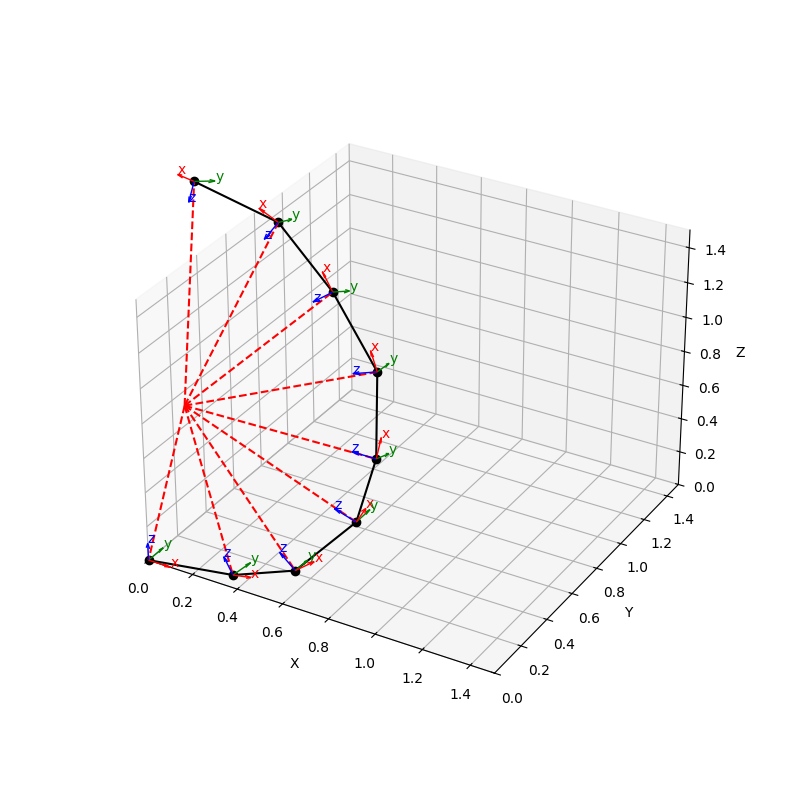
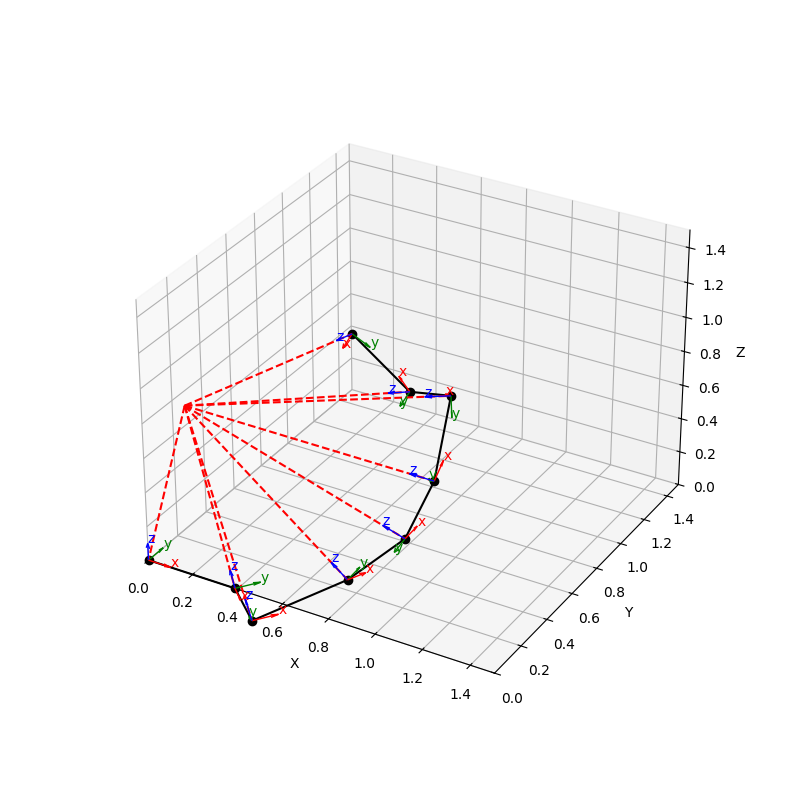
refactoring

diff --git a/fin_transformation.py b/fin_transformation.py
@@ -5,6 +5,9 @@ import matplotlib.pyplot as plt
 """
 Theory taken from: FORWARD KINEMATICS: THE DENAVIT-HARTENBERG CONVENTION
 https://users.cs.duke.edu/~brd/Teaching/Bio/asmb/current/Papers/chap3-forward-kinematics.pdf
+
+TODO
+Input parameter is number of rays, geometric parameters calculated automatically 
 """
 
 def plot_fin(positions, rotations, fin_origin, scale=0.5):
@@ -62,8 +65,8 @@ def plot_fin(positions, rotations, fin_origin, scale=0.5):
     ax.set_ylim(0, 1.5)
     ax.set_zlim(0, 1.5)
 
-    # Plot wireframe using position of fan origin
-    print(f'Checking each point is equal euclidian distance from fin origin')
+    # Plot wireframe by connecting joints to fin origin
+    print(f'Sanity checking each point is equal euclidian distance from fin origin:')
     for i, position in enumerate(positions):
         xyz = [[i, j] for i, j in zip(fin_origin, position)]
         x_ = xyz[0]
@@ -80,10 +83,12 @@ def plot_fin(positions, rotations, fin_origin, scale=0.5):
     # plt.show()
 
 def dh_transform(a, alpha, d, theta):
+    """
+    Standard DH transform
+    """
     ct = cos(theta); st = sin(theta)
     ca = cos(alpha); sa = sin(alpha)
 
-    # Standard DH transform
     return np.array([
         [ct, -st*ca,  st*sa, a*ct],
         [st,  ct*ca, -ct*sa, a*st],
@@ -151,23 +156,22 @@ def Tz(d):
 
 def transformation_matrix(beta, a, gamma, theta):
     """
-    Build A_i = Ry(beta) @ Rx(gamma) @ Rz(theta) @ Tx(a) @ Tz(d)
+    Build A_i = Ry(beta) @ Tx(a) @ Ry(gamma) @ Rz(theta) 
     where:
-      - beta rotates about local Y to set X direction,
-      - gamma rotates about local X to set Z axis,
-      - theta is the joint rotation about that Z,
-      - Tx(a) and Tz(d) place link endpoint.
+      - Ry(beta) rotates about local Y, by fixed ray offset beta, to set new X axis,
+      - Tx(a) is translation in new X direction by link length a,
+      - Ry(gamma) rotates about local Y, by fixed offset gamma, to set new Z axis
+      - Rz(theta) is joint rotation about new Z by joint angle theta.
+
     Returns 4x4 numpy array.
     """
     return Ry(beta) @ Tx(a) @ Ry(gamma) @ Rz(theta)
 
 def generate_transformation_params(b, a, g, inner_angle):
     """
-    Generates the paramters to describe the fin folding 
+    Generates the individual joint parameters to describe the fin folding 
     """
     outer_angle = -inner_angle/2
-
-    # return outer_angle
 
     return([(b, a, g, outer_angle),
               (b, a, g, inner_angle),
@@ -182,7 +186,7 @@ def generate_transformation_params(b, a, g, inner_angle):
 # 3D cooridinates of the origin of the fin, calculated geometrically
 fin_origin = [0.39/2, 0, 0.98]
 
-# Chord length along each fin section
+# Chord length along each fin ray
 l = 0.39
 
 # Angle of each chord, relative to previous
@@ -191,57 +195,45 @@ c = -pi/16
 # Angle of each z rotation axis, relative to previous
 g = -pi/16
 
-# --- Parameters for transformation matrix: beta, a, gamma, theta ---
-# Example: Open fan (completely flat)
-# params = [(0, l, g, pi/4),
-#                     (c, l, g, -pi/4),
-#                     (c, l, g, pi/4),
-#                     (c, l, g, -pi/4),
-#                     (c, l, g, pi/4),
-#                     (c, l, g, -pi/4),
-#                     (c, l, g, pi/4),
-#                     (c, l, g, -pi/4),
-#                     ]
-
-# # Example: Zig-zag fold
-# params = [(0, l, g, pi/4),
-#                     (c, l, g, -pi/4),
-#                     (c, l, g, pi/4),
-#                     (c, l, g, -pi/4),
-#                     (c, l, g, pi/4),
-#                     (c, l, g, -pi/4),
-#                     (c, l, g, pi/4),
-#                     (c, l, g, -pi/4),
-#                     ]
-
-# # Example: Zig-zag fold
-# params = [(0, l, g, -pi/4),
-#                     (c, l, g, pi/2),
-#                     (c, l, g, -pi/4),
-#                     (c, l, g, pi/2),
-#                     (c, l, g, -pi/4),
-#                     (c, l, g, pi/2),
-#                     (c, l, g, -pi/4),
-#                     (c, l, g, pi/2),
-#                     ]
-
-# # Example: Fully folded fin
-# params = [(0, l, g, -pi/2),
-#                     (c, l, g, pi),
-#                     (c, l, g, -pi/2),
-#                     (c, l, g, pi),
-#                     (c, l, g, -pi/2),
-#                     (c, l, g, pi),
-#                     (c, l, g, -pi/2),
-#                     (c, l, g, pi),
-#                     ]
-
 # Iterate through a series of states from fully open fin to fully folded
-for i, angle in enumerate(np.linspace(0, pi, 10)):
+for i, angle in enumerate(np.linspace(0, pi, 1)):
 
     # Parameters for transformation matrix: beta, a, gamma, theta
     params = generate_transformation_params(c, l, g, angle)
 
+    # Example: Fully opn fin (flat)
+    params = [(0, l, g, 0),
+              (c, l, g, 0),
+              (c, l, g, 0),
+              (c, l, g, 0),
+              (c, l, g, 0),
+              (c, l, g, 0),
+              (c, l, g, 0),
+              (c, l, g, 0),
+            ]
+    
+    # Example: Partially folded fin (zig-zag) 
+    params = [(0, l, g, pi/4),
+              (c, l, g, -pi/4),
+              (c, l, g, pi/4),
+              (c, l, g, -pi/4),
+              (c, l, g, pi/4),
+              (c, l, g, -pi/4),
+              (c, l, g, pi/4),
+              (c, l, g, -pi/4),
+            ]
+
+    # Example: Fully folded fin
+    params = [(0, l, g, -pi/2),
+              (c, l, g, pi),
+              (c, l, g, -pi/2),
+              (c, l, g, pi),
+              (c, l, g, -pi/2),
+              (c, l, g, pi),
+              (c, l, g, -pi/2),
+              (c, l, g, pi),
+            ]
+    
     # 4 x 4 identity matrix
     T = np.eye(4)
 
